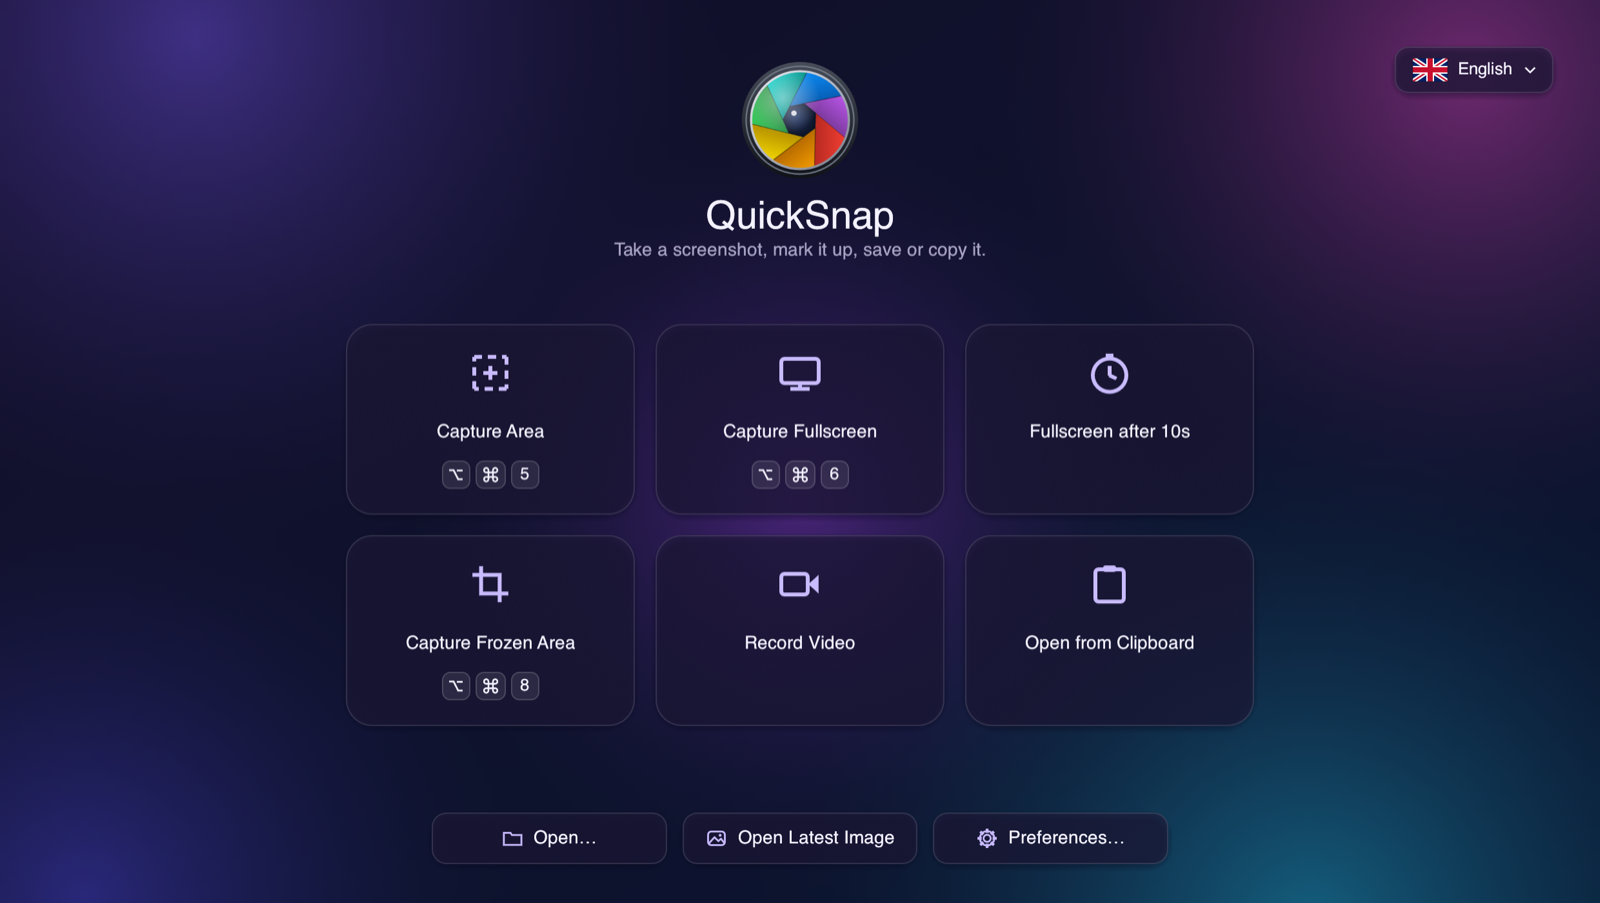
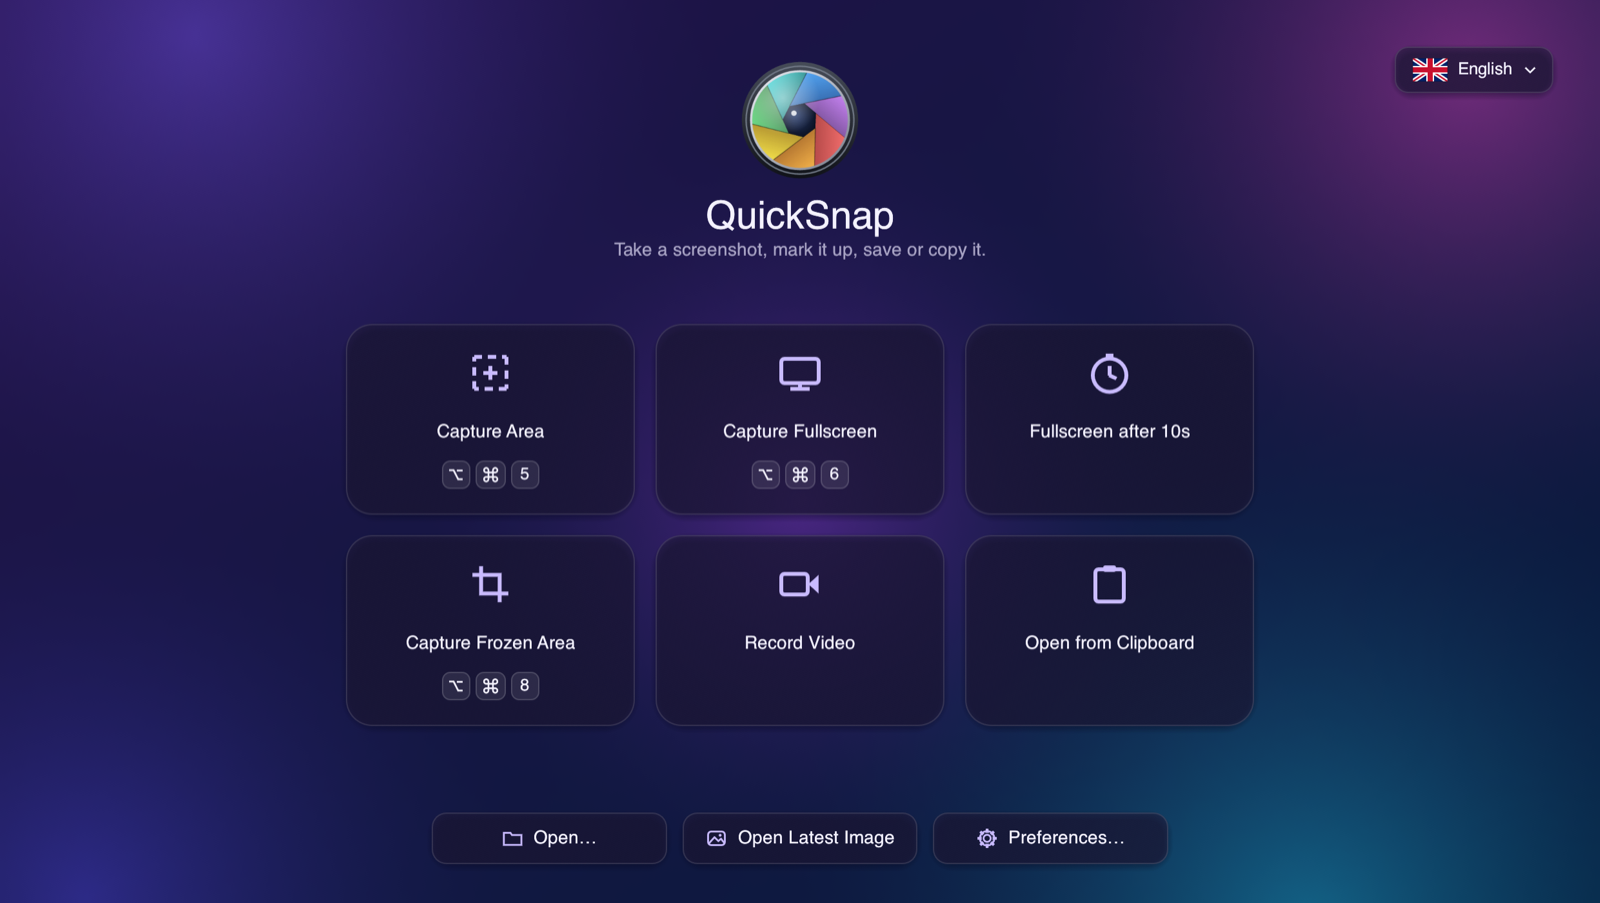
Bump version to 0.5.1
- Cargo.toml, Cargo.lock and the README badge at 0.5.1
- CHANGELOG: 0.5.1 section and comparison links
- README: home screenshot with the new icon colours

Changed region(s): [[0.25, 0.0, 0.6875, 0.3721], [0.0, 0.0, 0.2188, 0.6512]]

diff --git a/CHANGELOG.md b/CHANGELOG.md
@@ -4,6 +4,8 @@ All notable changes to QuickSnap. Versions follow [Semantic Versioning](https://
 
 ## [Unreleased]
 
+## [0.5.1] - 2026-11-17
+
 ### Changed
 - Home screen: the background's colour glows are scattered at random on every launch
   (no longer one per corner) and wander along their own irregular paths; each reacts
@@ -136,7 +138,8 @@ No changes in the app itself; this version is about how it is released.
 First version: area, frozen-area, full-screen and delayed captures, screen recording,
 annotation editor, menu-bar app, global hotkeys and an English/Spanish/Catalan interface.
 
-[Unreleased]: https://github.com/donbuche/quicksnap/compare/v0.5.0...HEAD
+[Unreleased]: https://github.com/donbuche/quicksnap/compare/v0.5.1...HEAD
+[0.5.1]: https://github.com/donbuche/quicksnap/compare/v0.5.0...v0.5.1
 [0.5.0]: https://github.com/donbuche/quicksnap/compare/v0.4.0...v0.5.0
 [0.4.0]: https://github.com/donbuche/quicksnap/compare/v0.3.1...v0.4.0
 [0.3.1]: https://github.com/donbuche/quicksnap/compare/v0.3.0...v0.3.1

diff --git a/README.md b/README.md
@@ -6,7 +6,7 @@
 
 **A lightweight screenshot and annotation tool for macOS, written in Rust.**
 
-![Version](https://img.shields.io/badge/version-0.5.0-blue)
+![Version](https://img.shields.io/badge/version-0.5.1-blue)
 ![Platform](https://img.shields.io/badge/platform-macOS%2011%2B-lightgrey?logo=apple)
 ![Apple Silicon](https://img.shields.io/badge/Apple%20Silicon-native-success?logo=apple)
 ![Rust](https://img.shields.io/badge/Rust-2021-orange?logo=rust)
